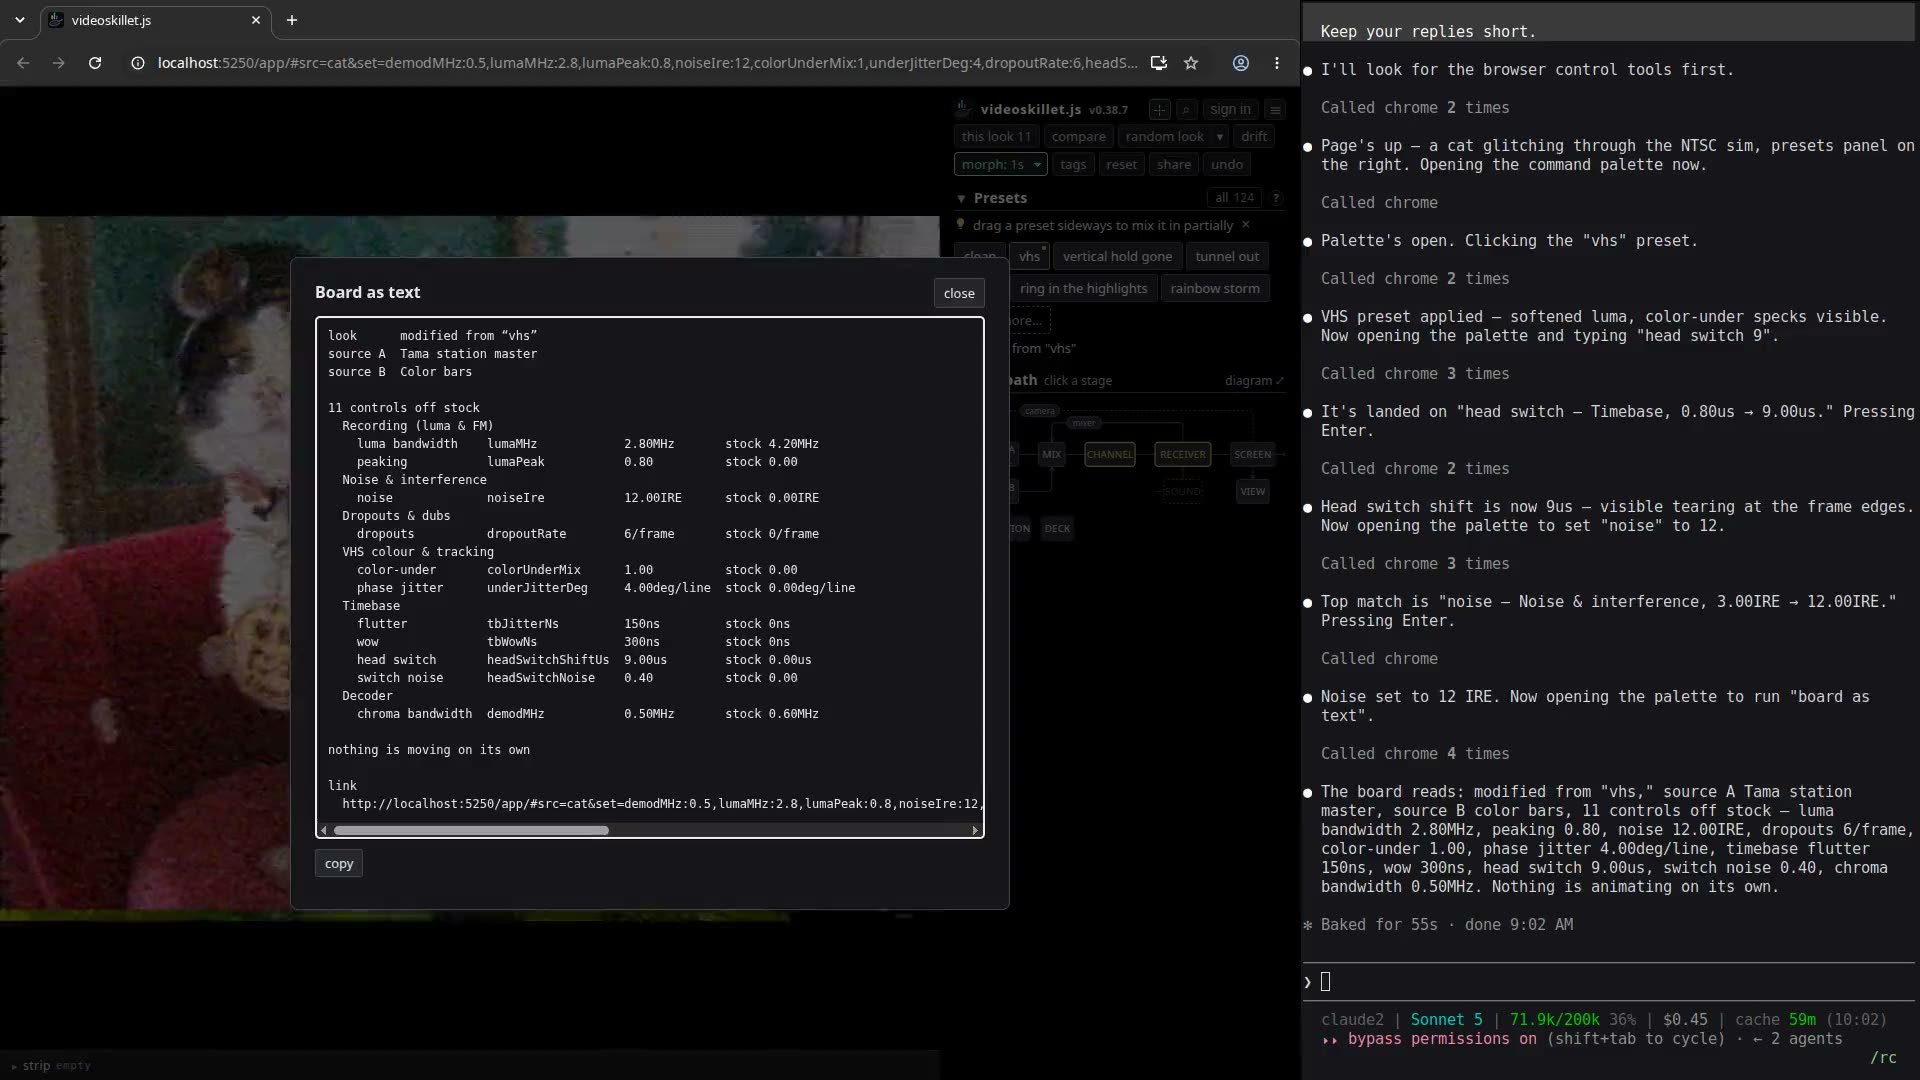
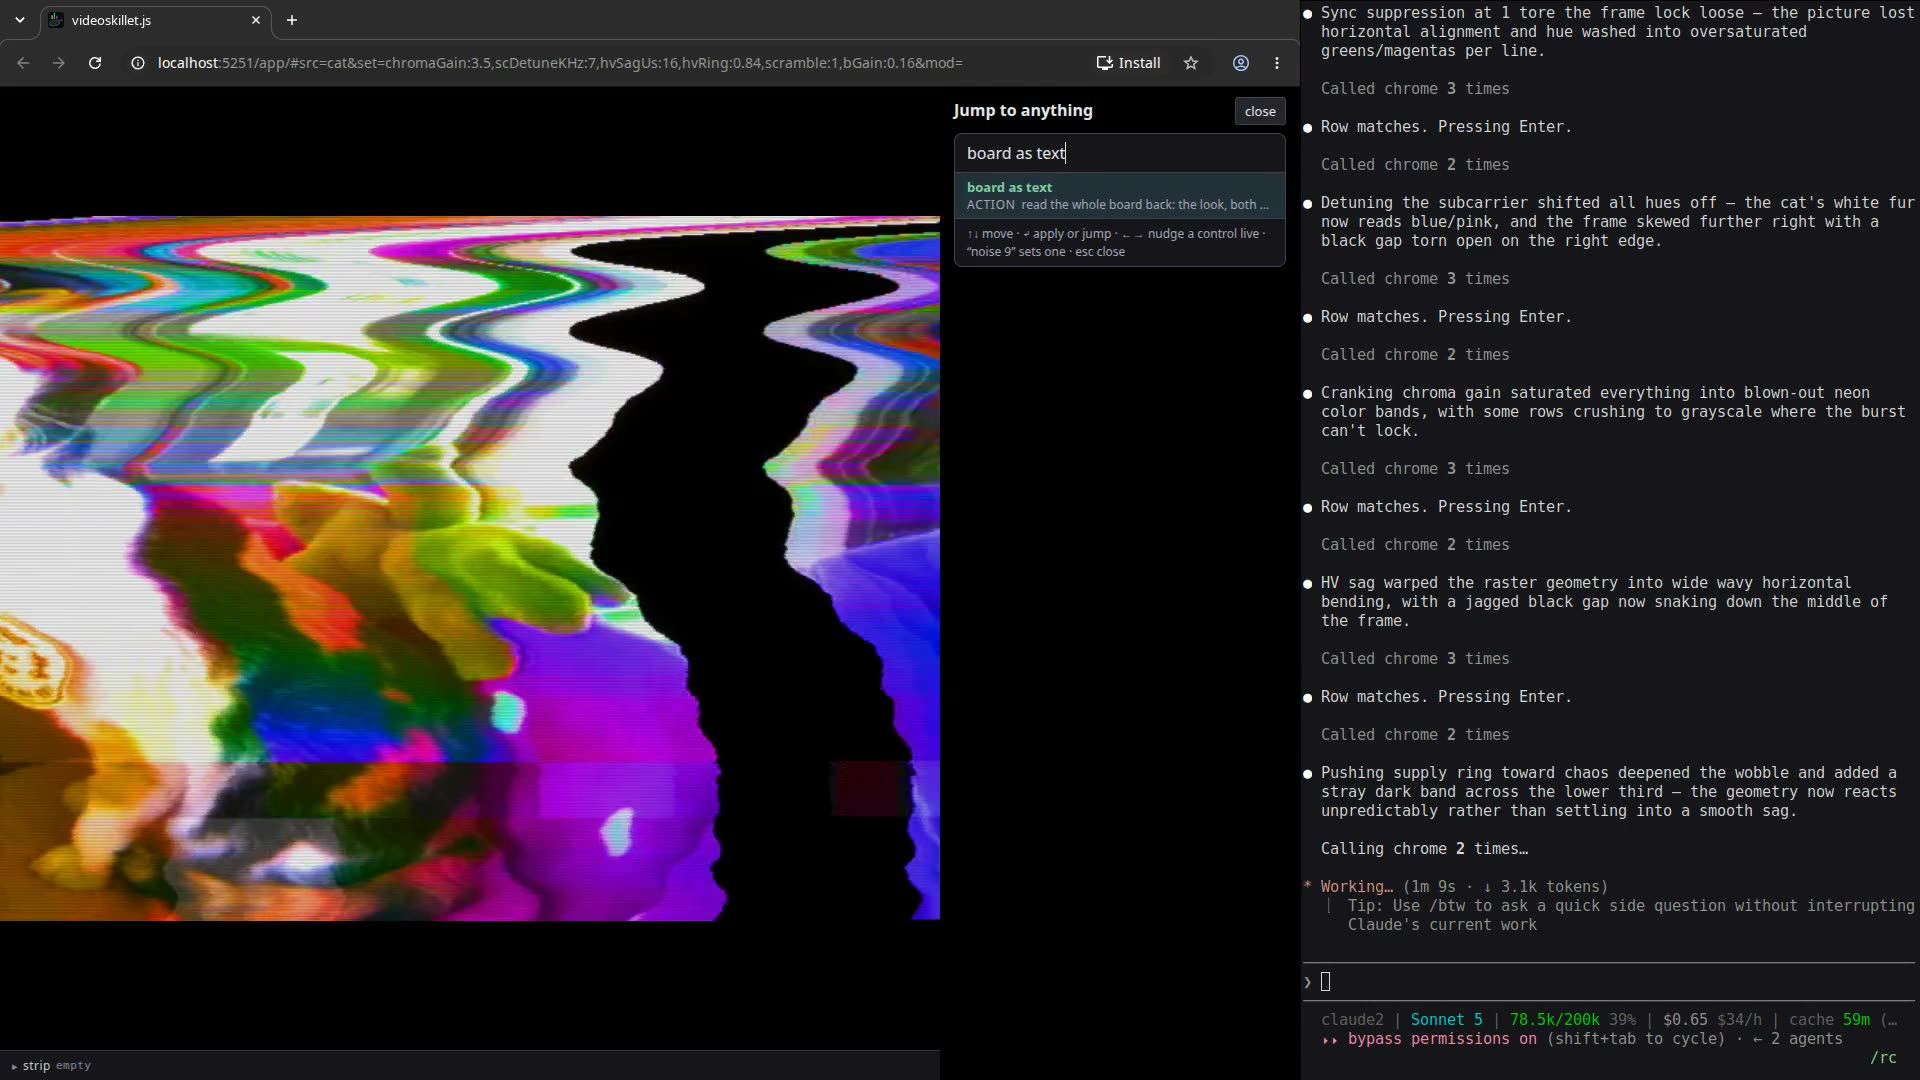
feat(docs): the demo drives the rows that read on camera, and hosts the clip
The first take typed `head switch 9` and `noise 12` — real edits that read on
camera as almost nothing. A 9µs tear is a band at one edge of the frame and 12
IRE of noise is grain, so the recording was a model competently doing something
invisible.

The screening behind the landing page's map walk had already answered this, off
thirty-six rows tried one at a time on the same photograph: sync suppression,
subcarrier detune and chroma gain read on their own and read better stacked, and
HV sag and supply ring shear the result once it is already coming apart. The
task now types those five, in that order, so every pull lands on what the last
one did — a photograph scrambles into inverted bands, the hue barber-poles down
the frame, the whole thing goes rainbow, and the geometry bends it into waves.

Three things follow:

- **The stop condition asks by accessible name.** The board dump moved into the
  sidebar as a PanelSheet, and `dialog pre` had already stopped matching — a
  broken stop condition looks exactly like a model that never finished.
- **The poster is three seconds before the sheet opens.** The sheet takes the
  sidebar, so the last frame is half a column of text where the frame before it
  is the picture at its worst across the full width.
- **The encode is set for how it looks, not what it weighs**, and `--upload`
  puts the clip on its own bucket. The size a good take costs is not a reason to
  record a worse one.
[…]

diff --git a/docs/DEVELOPMENT.md b/docs/DEVELOPMENT.md
@@ -1075,13 +1075,14 @@ Chrome, with both windows in one frame:
 
 ```
 pnpm agentreel                        # the default palette task, into clips/
+pnpm agentreel --upload               # and send it where the docs point
 pnpm agentreel --model=opus           # a different model at the keys
 pnpm agentreel --task=/tmp/ask.txt    # a different sentence to carry out
 pnpm agentreel --keep                 # keep the terminal log and the raw grab
 ```
 
 It needs Xvfb, xterm, xdotool, ffmpeg, Chrome, and a logged-in `claude`. It
-costs real tokens — a run is about 45 seconds of session and a dollar or so, and
+costs real tokens — a run is a minute or two of session and a dollar or so, and
 the status line in the recording says how much.
 
 **Nothing in the timeline is scripted, and that is the point.** `appreel.mjs`
@@ -1090,7 +1091,19 @@ for a product reel; here the presses, their order and the model's own
 corrections mid-run are what the recording is evidence of. The script sets the
 stage, opens the shutter, and stops when the session lands.
 
-Four things it had to get right, each of which cost a wrong answer first:
+**The rows in the default task are the ones the reel already screened.** The
+first take typed `head switch 9` and `noise 12`, which are real edits and read
+on camera as almost nothing — a 9µs tear is a band at one edge of the frame and
+12 IRE of noise is grain. The screening behind the landing page's map walk had
+already answered this, off thirty-six rows tried one at a time on the same
+photograph: most of the panel reads as nothing alone, sync suppression,
+subcarrier detune and chroma gain read on their own and read better stacked, and
+HV sag and supply ring shear the result once it is already coming apart. Every
+pull lands on what the last one did, which is the only reason five edits in a
+minute read as an escalation rather than a list. Write a new task against that
+list rather than against the schema.
+
+Five things it had to get right, each of which cost a wrong answer first:
 
 - **A nested X display, not the desktop.** This box is GNOME on Wayland, where
   `x11grab` against `:0` grabs nothing: mutter composites outside X, so the root
@@ -1105,23 +1118,33 @@ Four things it had to get right, each of which cost a wrong answer first:
   `--mcp-config` both keep eating arguments until the next flag, so a prompt
   written after one of them is read as a tool name — the first take is four
   minutes of Claude Code sitting at an empty prompt.
-- **The end is the terminal going quiet, not the last click.** The dialog the
+- **The end is the terminal going quiet, not the last click.** The sheet the
   task ends on opens while the model is still writing what it says, which is the
   sentence worth recording. xterm logs every byte it draws, so a session that
   has stopped writing has stopped working.
+- **The stop condition asks by accessible name**, `[aria-label="board as text"]`
+  — the one handle on this app that is held still on purpose. Asked for as a
+  `<dialog>` it broke silently the week those sheets moved into the sidebar, and
+  a broken stop condition looks exactly like a model that never finished.
 
-The clip lands in gitignored `clips/`, the same place `docshots.mjs` leaves its
-recordings, and the poster — the last frame, since that is the one that makes
-the case — is committed to `docs/img/`. Upload the clip beside the guide's
-others:
+The clip lands in gitignored `clips/`, and with `--upload` at
+`https://myloveydove.com/videoskillet/agent-drive.mp4`, which is where the AI
+usage page points. Its own bucket rather than the one the guide's other clips
+are in: those are seconds of canvas and this is minutes of a whole window, and
+the size a good take costs is not a reason to record a worse one. The encode is
+set for how it looks rather than what it weighs — a couple of minutes at 1080p
+runs to 45MB.
 
-```
-aws s3 cp clips/agent-drive.mp4 s3://cmdcolinphotos/phosphene/ --profile colin
-```
+The poster is committed to `docs/img/`, taken three seconds before the board
+sheet opens. The last frame was tried first and is the wrong one: the sheet
+takes the sidebar, so the thumbnail a reader decides on is half a column of
+text, where three seconds earlier the picture is at its worst across the whole
+width with the transcript beside it.
 
-No GIF. This recording as one is 45MB against the mp4's five: 1920 pixels of
-live analog grain is the worst case a palette-indexed format has, and every crop
-small enough to fix it drops one of the two windows the recording is about.
+No GIF. This recording as one is 45MB against an mp4 of the same take at five:
+1920 pixels of live analog grain is the worst case a palette-indexed format has,
+and every crop small enough to fix it drops one of the two windows the recording
+is about.
 
 ## The landing page
 

diff --git a/docs/AI-USAGE.md b/docs/AI-USAGE.md
@@ -13,11 +13,14 @@ the task, and stops when it lands:
 <video
   controls muted loop playsinline
   poster="img/agent-drive-poster.jpg"
-  src="https://cmdcolinphotos.s3.amazonaws.com/phosphene/agent-drive.mp4"></video>
+  src="https://myloveydove.com/videoskillet/agent-drive.mp4"></video>
 
-Every press in it comes from the model: it opens the palette, applies `vhs`,
-reads the row `head switch 9` lands on before committing it, sets the noise, and
-finishes by reading the whole board back. `DEVELOPMENT.md` §
+Every press in it comes from the model. It types five controls into the palette
+in turn — sync suppression, subcarrier detune, chroma gain, HV sag, supply ring
+— checking each row before committing it, and each one lands on what the last
+one did: a photograph scrambles into inverted bands, the hue barber-poles down
+the frame, the whole thing goes rainbow, and the geometry bends it into waves.
+Then it reads the board back. `DEVELOPMENT.md` §
 [Recording an agent driving the app](DEVELOPMENT.md#recording-an-agent-driving-the-app)
 is how to run it.
 
